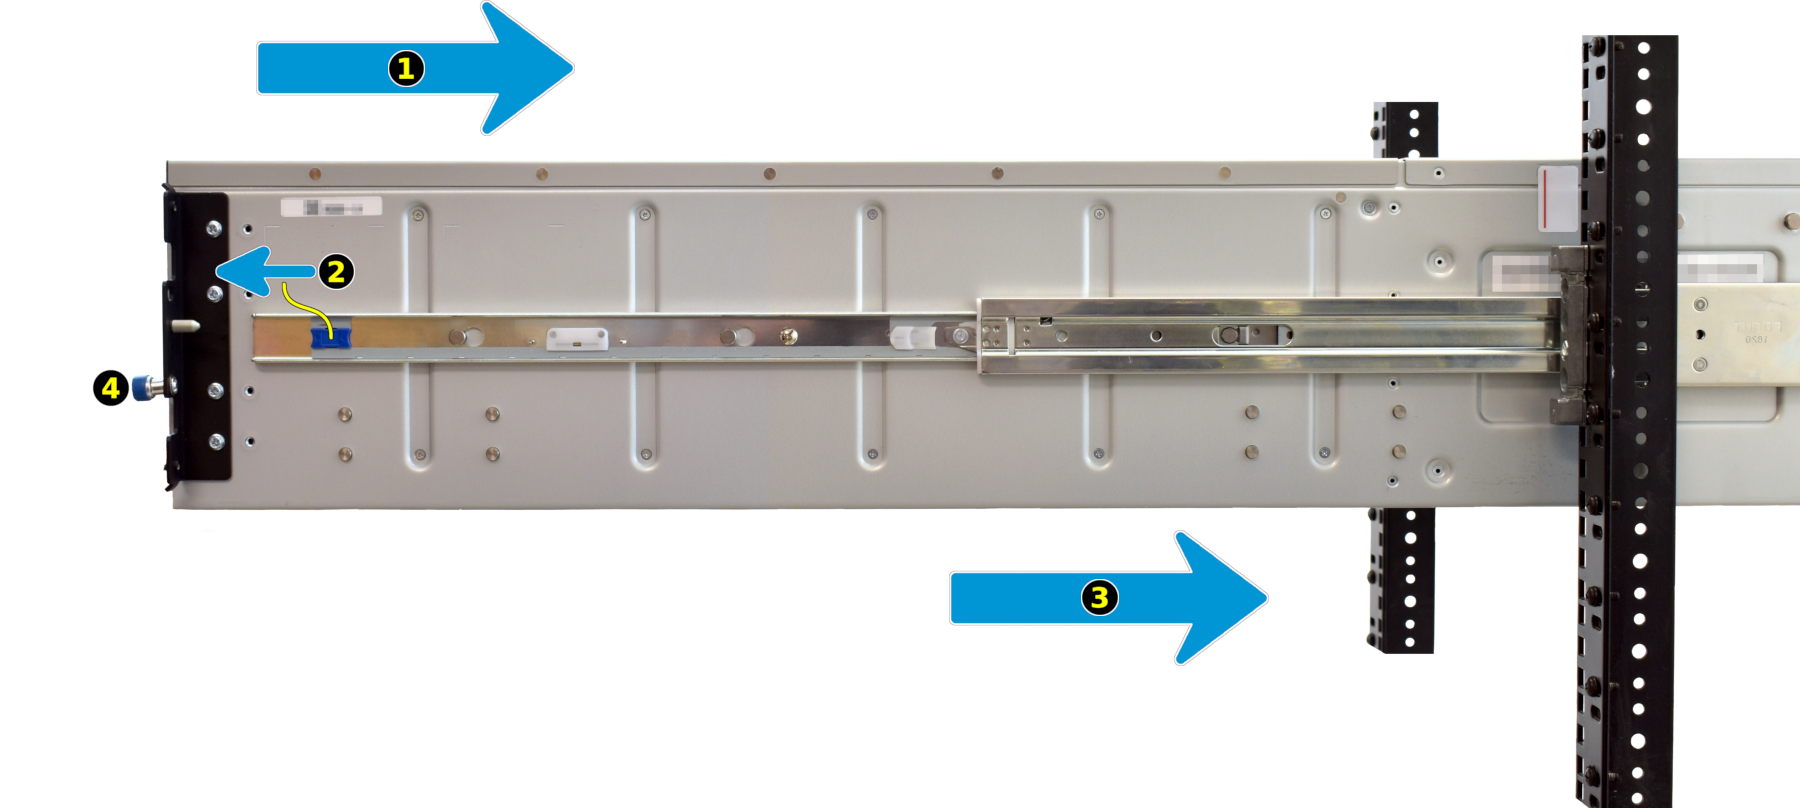
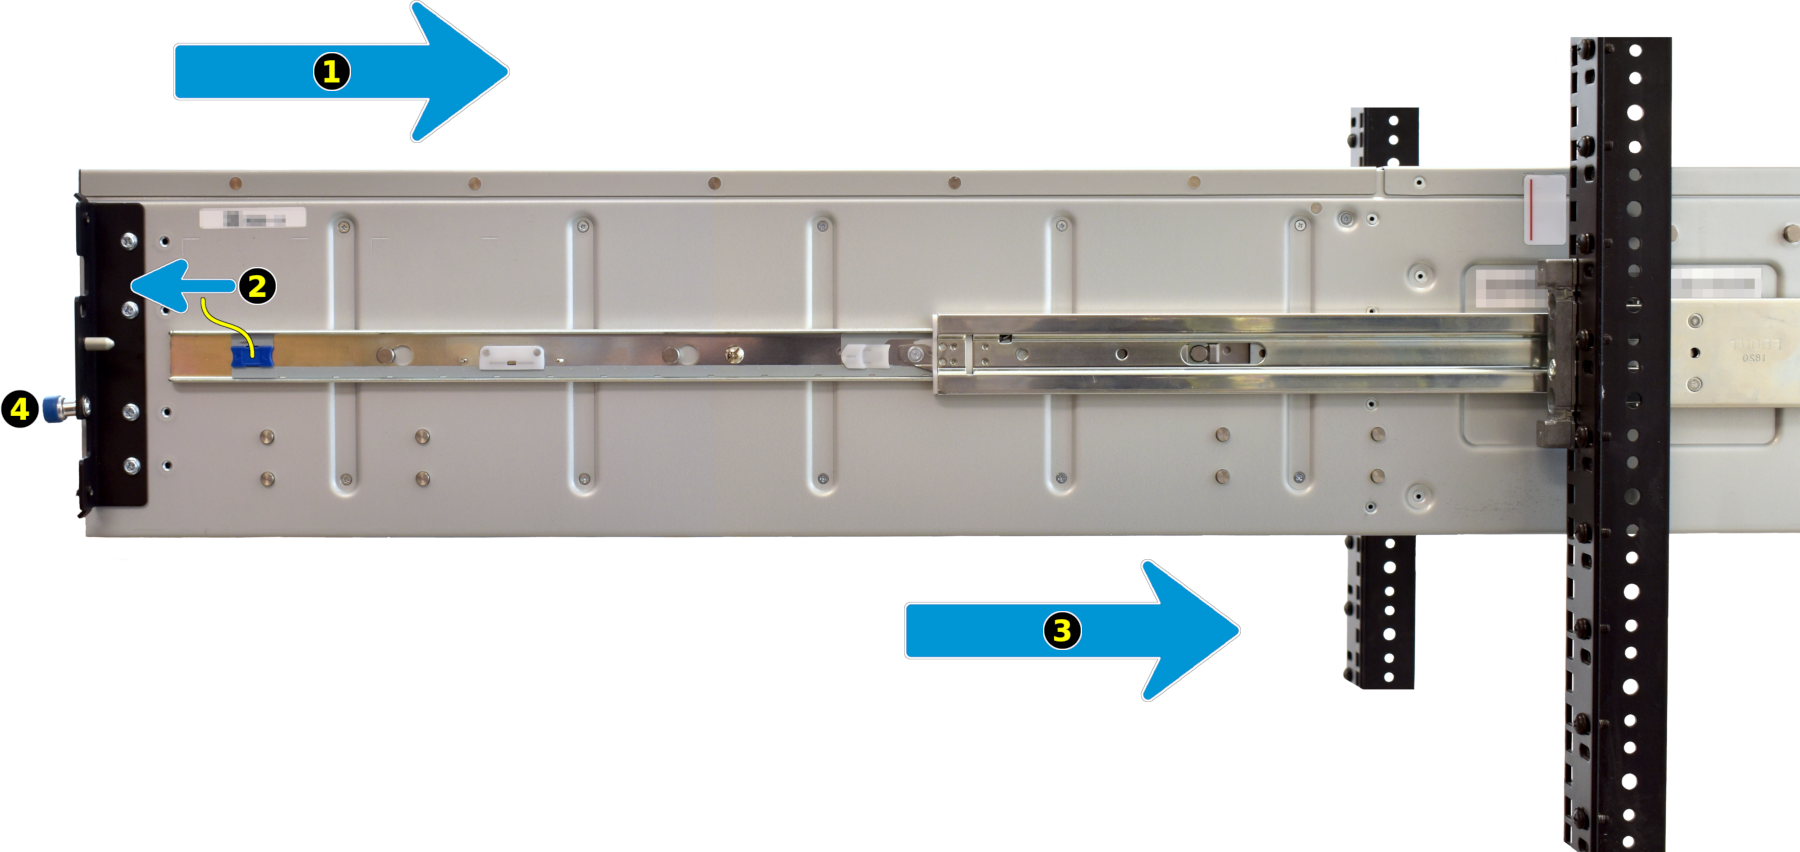
Update images and text

diff --git a/userguide/snippets/es60.rst b/userguide/snippets/es60.rst
@@ -12,8 +12,8 @@ ES60 Expansion Shelf
 --------------------
 
 The %brand% ES60 Expansion Shelf is a 4U, 60-bay storage
-expansion unit designed specifically for use with the %brand%
-Unified Storage Array.
+expansion unit designed specifically for use with %brand%
+Unified Storage Arrays.
 
 
 #include snippets/perfect.rst
@@ -83,8 +83,8 @@ configuration.
    * Power indicator (#2)
    * Alarm indicator (#3)
    * Locate ID (#4)
-   * Management port (not used) (#5)
-   * HD Mini SAS3 connectors (#6 and #7)
+   * Management port (#5, not used)
+   * HD Mini SAS3 connectors (#6, #7)
 
 
 Rail Kit Assembly
@@ -127,8 +127,8 @@ the front of the rack, and two at the rear. Align each cage nut with
 the others, both front to back and left to right. The cage nuts
 provide an attachment point inside the rack for the rail screws.
 
-The rail ends are stamped "Front" and "Rear". Place one rail in the
-rack with the "Front" stamp at the front facing outward. The "Rear"
+The rail ends are stamped *Front* and *Rear*. Place one rail in the
+rack with the *Front* stamp at the front facing outward. The *Rear*
 stamp goes at the back of the rack. Align the pins on both rail
 ends with the mounting holes in the rack. Make sure the cage nuts line
 up with the rail holes. Push the pins into the rack holes until they
@@ -147,22 +147,22 @@ installation or removal.** Do not install drives until after the
 chassis has been installed in the rack, and remove all drives before
 removing the chassis from the rack.
 
-Pick up the ES60 with attached cabinet rails. Align the ES60 cabinet
-rails with the inside of the front rack rails.
+Lift the ES60 with attached cabinet rails and align the cabinet rails
+with the inside front of the rack rails.
 
 .. figure:: images/tn_es60_cabinet_mount.png
-   :width: 40%
+   :width: 60%
 
 
-Carefully push the ES60 forward into the rack rails until the unit
-stops (#1). Find the blue tabs on the inside of the cabinet rails. Pull
-these tabs away from the rack and hold them in place (#2). Continue to
-push the chassis forward until the ears are flush with the front of the
-rack (#3). Tighten both blue screws on the ears of the chassis to
-secure the unit in the rack (#4).
+Carefully slide the ES60 forward into the rack rails until the unit
+stops (#1). Locate the blue tabs on the inside of the cabinet rails.
+Slide the tabs toward the front of the ES60 and hold them in place
+(#2). Push the chassis into the rack until the ears are flush with the
+front of the rack (#3). The thumbscrews on the ears are used to secure
+the unit in the rack after drive trays have been installed (#4).
 
 .. figure:: images/tn_es60_cabinet_secure.png
-   :width: 90%
+   :width: 100%
 
 
 .. raw:: latex
@@ -181,9 +181,8 @@ the rack.**
 Remove Top Cover
 ^^^^^^^^^^^^^^^^
 
-Slide the unit out on the rails. Turn the blue screws counterclockwise
-to unlock the top cover. Slide the top cover toward the front of the
-system, then lift to remove it.
+Slide the unit out on the rails. Unscrew the cover screws to unlock
+the top cover. Slide the top cover forward, then lift it off.
 
 .. figure:: images/tn_es60_remove_cover.png
    :width: 75%
@@ -195,24 +194,19 @@ Install Drive Trays
 Drive trays are used to mount drives in the array.
 
 A standard drive tray installation order simplifies support and is
-strongly recommended:
-
-* SSD drives for SLOG, if present
-
-* SSD drives for L2ARC, if present
-
-* Hard drives or SSD drives for data storage
+strongly recommended: install SSD drives for SLOG first, if present.
+Follow this with SSD drives for L2ARC, if present, then hard drives or
+SSD drives for data storage.
 
 Install the first drive tray in the front left drive bay. Install the
 next drive tray to the right of the first. Install remaining drive
 trays to the right across the row. After a row is filled with drives,
 move back to the next row and start again with the left bay. A label
-on the front left of the lid identifies the preferred order of drive
-connection.
+on the front left of the lid shows the preferred order of drives.
 
-Press the blue button to open the latch. Lower the drive tray into a
-drive bay until the latch begins to move into place. Push the latch
-the rest of the way until it locks into place.
+Slide the tray button left to open the latch. Carefully lower the
+drive tray into a drive bay until the latch begins to move into place.
+Push the latch down until it locks into place.
 
 
 .. figure:: images/tn_es60_drivetray_install.png
@@ -354,7 +348,7 @@ with cables #3 and #4.
 
 **M-Series**
 
-The %brand% M-Series support multiple ES60 expansion shelves, which
+The %brand% M-Series supports multiple ES60 expansion shelves, which
 can be combined with other %brand% expansion shelves.
 
 
@@ -391,7 +385,7 @@ The SAS cables connect to the *1* ports on the ES60 expansion shelves.
 * Connect cable #2 to the first ES60, expansion controller 2 SAS 1
   port.
 
-If a second ES60 is present (X-series supports only one ES60):
+If a second ES60 is present (not supported on the X-series):
 
 * Connect cable #3 to the second ES60, expansion controller 1 SAS 1
   port.
